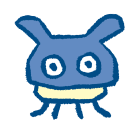
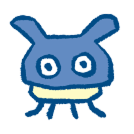
recentering tama-09 roundscreen and truthinputs

Changed region(s): [[0.0597, 0.0896, 0.9552, 0.8955]]

diff --git a/src/react-app/pages/RoundScreen/RoundScreen.css b/src/react-app/pages/RoundScreen/RoundScreen.css
@@ -493,6 +493,10 @@
   cursor: pointer;
   transition: all 0.2s;
   position: relative;
+  display: flex;
+  justify-content: center;
+  align-items: center;
+  flex-direction: column;
 }
 
 .player-card:hover {
@@ -556,11 +560,15 @@
   border-image-width: 0px;
 }
 
-.player-icon {
+.player-icon-frame {
   width: clamp(4rem, 8vh, 5rem);
   height: clamp(4rem, 8vh, 5rem);
   border-radius: 50%;
   object-fit: cover;
+  display: flex;
+  overflow: hidden;
+  padding: 4px;
+  background-color: white;
   margin-bottom: clamp(0.375rem, 0.8vh, 0.5rem);
   border: clamp(0.0875rem, 0.2vw, 0.125rem) solid #404040;
 }

diff --git a/src/react-app/pages/RoundScreen/RoundScreen.jsx b/src/react-app/pages/RoundScreen/RoundScreen.jsx
@@ -848,8 +848,9 @@ export default function RoundScreen() {
                 {hasVoted && !isRevealing && (
                   <div className="vote-checkmark">✓</div>
                 )}
-
-                <img src={player.icon} alt={player.name} className="player-icon" />
+                <div className="player-icon-frame">
+                  <img src={player.icon} alt={player.name} className="player-icon" />
+                </div>
                 <div className="player-name">{player.name}</div>
                 <div className="player-score">{displayScore} pts</div>
               </div>

diff --git a/src/react-app/pages/TruthInputs/TruthInputs.css b/src/react-app/pages/TruthInputs/TruthInputs.css
@@ -218,6 +218,7 @@
   width: 100%;
   height: 100%;
   object-fit: cover;
+  padding: 8px;
 }
 
 .icon-arrows {
